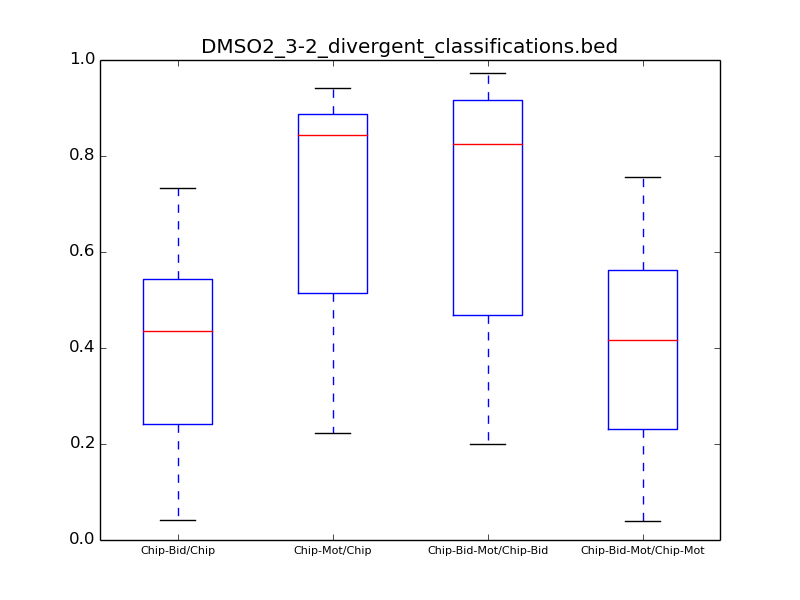
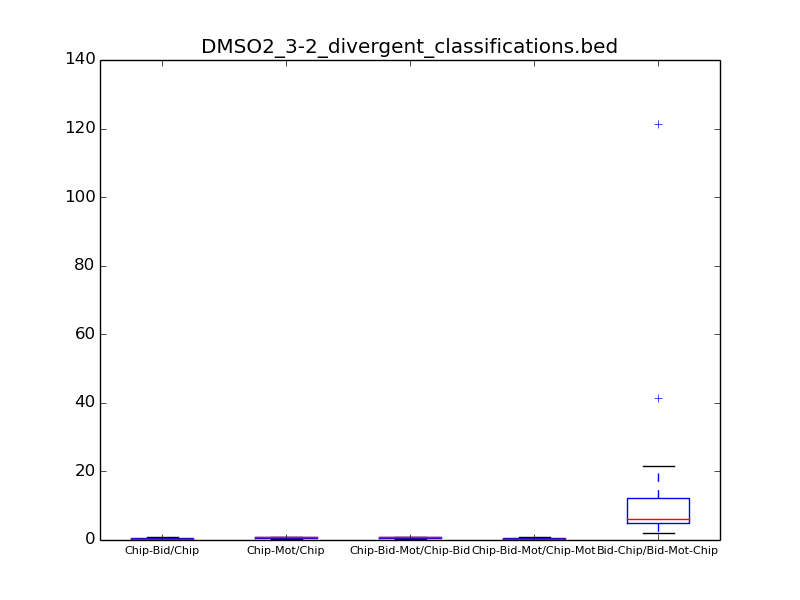
updates

diff --git a/src/VennGeneratorv2.py b/src/VennGeneratorv2.py
@@ -121,13 +121,13 @@ if __name__ == "__main__":
                         list1[1].append(chipfimo/chiptot)
                         list1[2].append(chipbidirfimo/chipbidir)
                         list1[3].append(chipbidirfimo/chipfimo)
-                        list1[4].append(bidirfimo/bidirfimochip)
+                        list1[4].append(bidirfimochip/bidirfimo)
     print list1
     F = plt.figure()
     ax = plt.axes()
     plt.boxplot(list1)
     title = bidirfile.split('/')[-1]
     plt.title(title)
-    ax.set_xticklabels(['Chip-Bid/Chip', 'Chip-Mot/Chip', 'Chip-Bid-Mot/Chip-Bid','Chip-Bid-Mot/Chip-Mot','Bid-Chip/Bid-Mot-Chip'],fontsize=8)
+    ax.set_xticklabels(['Chip-Bid/Chip', 'Chip-Mot/Chip', 'Chip-Bid-Mot/Chip-Bid','Chip-Bid-Mot/Chip-Mot','Bid-Mot-Chip/Bid-Mot'],fontsize=8)
     plt.savefig(chipdir + '/overlap_boxplot2.png')
     
